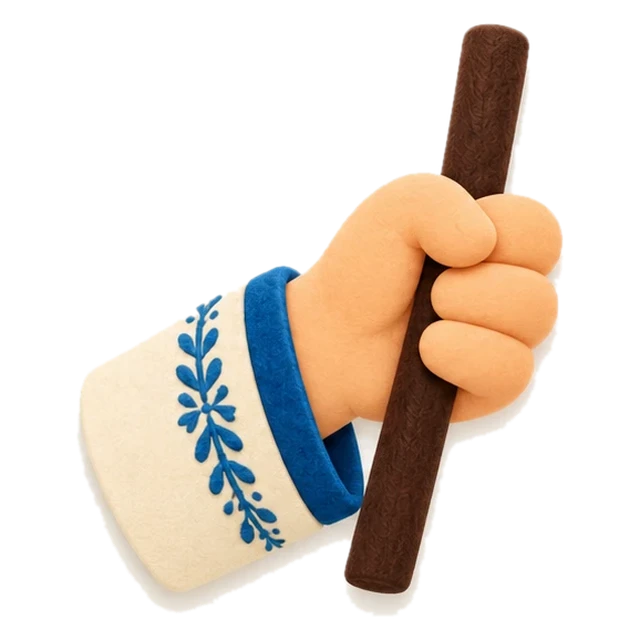
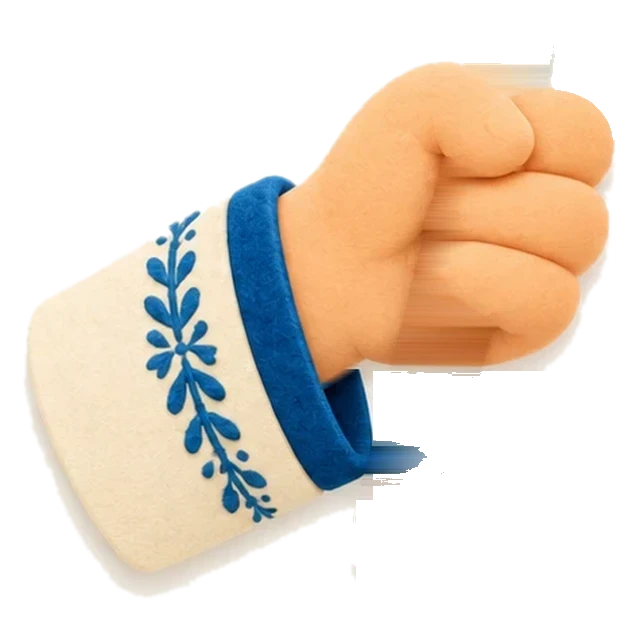
Show 我's hand on its own and keep the two pictures apart
The hand picture no longer holds a stick, so it reads as just 扌, and
when a reveal has several pictures each one appears on its own side
instead of in the middle, so the hand and the weapon never overlap.

diff --git a/app/src/lesson/Reveal.tsx b/app/src/lesson/Reveal.tsx
@@ -12,8 +12,8 @@ type Shown = { src: string; place: RevealStep['place'] | 'center'; look: Look }
 
 const PLACE = {
   center: { left: '6%', width: '88%' },
-  left: { left: '0%', width: '48%' },
-  right: { left: '52%', width: '48%' },
+  left: { left: '0%', width: '46%' },
+  right: { left: '54%', width: '46%' },
 }
 const LOOK: Record<Look, { opacity: number; filter: string }> = {
   hidden: { opacity: 0, filter: 'brightness(0)' },
@@ -46,8 +46,13 @@ export function Reveal({ data }: { data: RevealData }) {
 
 function RevealRun({ data }: { data: RevealData }) {
   const box = useRef<HTMLDivElement>(null)
+  // With several pictures each one stays on its own side, so they never overlap; a single
+  // picture starts in the middle and then slides under its part.
+  const several = data.steps.filter((s) => s.image).length > 1
   const [pictures, setPictures] = useState<Shown[]>(() => [
-    ...data.steps.filter((s) => s.image).map((s): Shown => ({ src: s.image!, place: 'center', look: 'hidden' })),
+    ...data.steps
+      .filter((s) => s.image)
+      .map((s): Shown => ({ src: s.image!, place: several ? s.place : 'center', look: 'hidden' })),
     ...(data.together ? [{ src: data.together, place: 'center' as const, look: 'hidden' as Look }] : []),
   ])
   const show = (i: number, change: Partial<Shown>) =>
